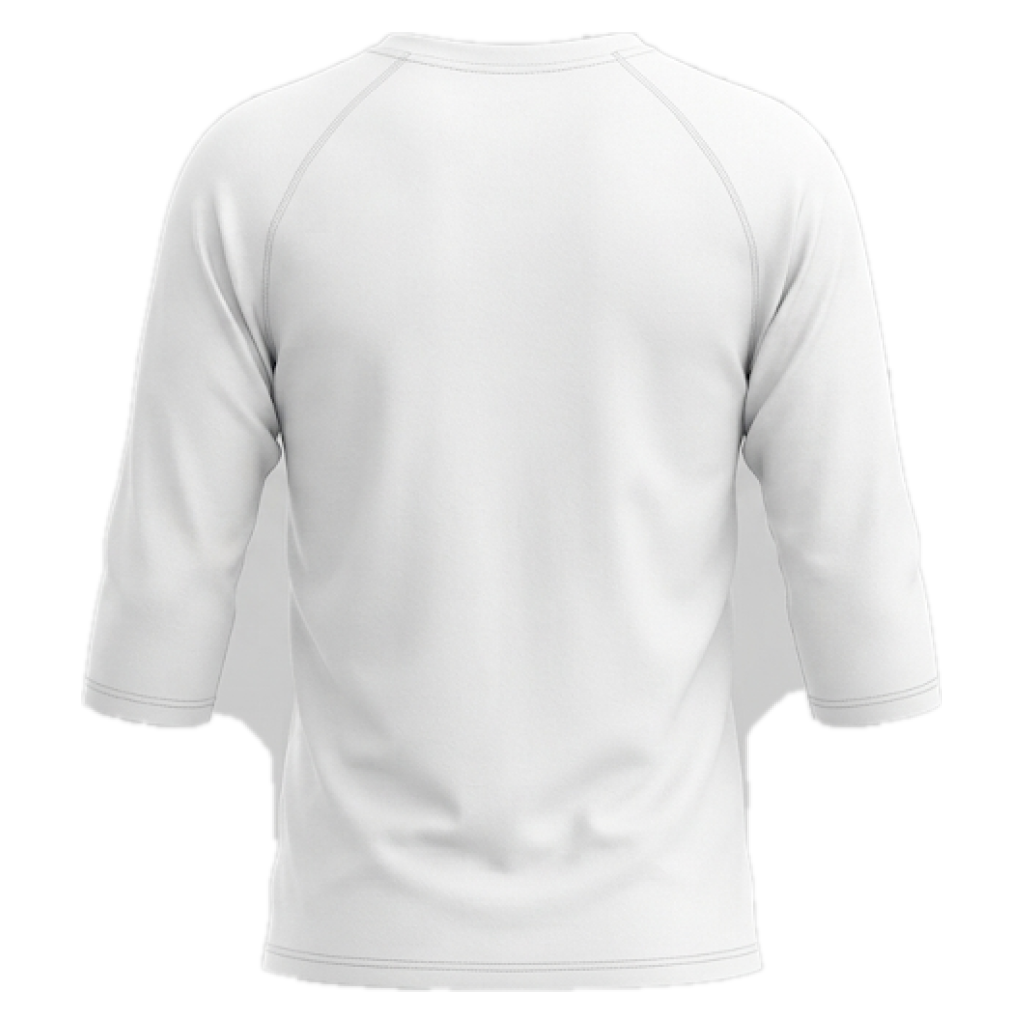
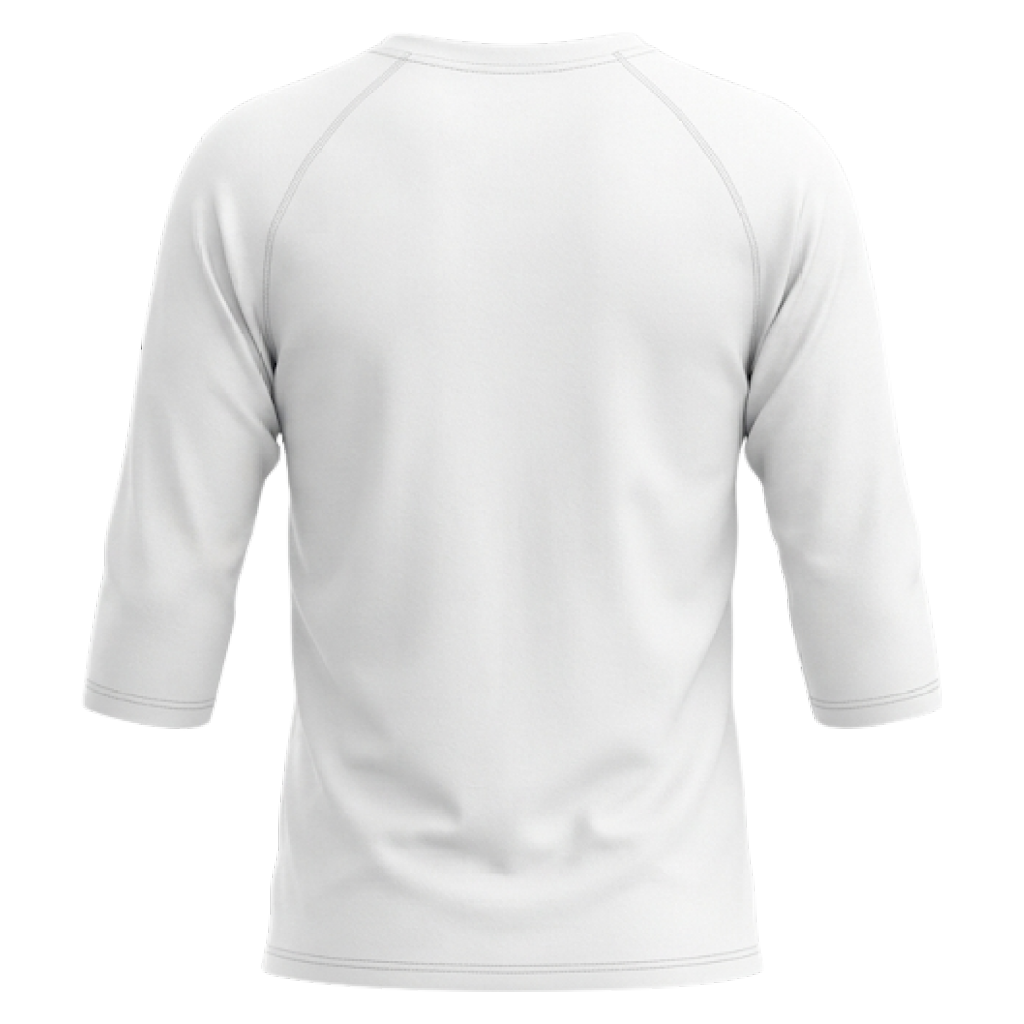
Studio: use hand-cut transparent photos; tune cap and V-neck zones
- build_garment_assets.py uses finished transparent cut-outs (from Downloads or
  <source>/cutouts) as is, so gaps between arms and torso and thin parts are
  exact; the automatic cut-out stays as a fallback.
- Re-generated all garment images from them (full-size for crew/polo/henley).
- Cap brim/button and V-neck collar zones re-aligned to the new images.

Changed region(s): [[0.1875, 0.4062, 0.3125, 0.8125], [0.6875, 0.3438, 0.8125, 0.7812], [0.75, 0.2812, 0.7812, 0.3125]]

diff --git a/lib/models/garment_style.dart b/lib/models/garment_style.dart
@@ -631,20 +631,22 @@ final _capFront = <String, ZonePath>{
   'brim': ZonePath(
     polygons: [
       [
-        _o(80, 660),
-        _o(512, 672),
-        _o(985, 660),
-        _o(990, 740),
-        _o(900, 830),
-        _o(780, 875),
-        _o(512, 895),
-        _o(300, 880),
-        _o(180, 820),
-        _o(85, 740),
+        _o(64, 690),
+        _o(280, 665),
+        _o(512, 656),
+        _o(740, 665),
+        _o(992, 690),
+        _o(960, 860),
+        _o(944, 935),
+        _o(780, 895),
+        _o(512, 860),
+        _o(244, 895),
+        _o(80, 935),
+        _o(64, 860),
       ],
     ],
   ),
-  'button': ZonePath(ellipses: [(_o(512, 92), 32, 24)]),
+  'button': ZonePath(ellipses: [(_o(512, 86), 30, 22)]),
 };
 final _capBack = <String, ZonePath>{
   'strap': ZonePath(
@@ -652,7 +654,7 @@ final _capBack = <String, ZonePath>{
       [_o(280, 660), _o(780, 665), _o(800, 700), _o(790, 745), _o(280, 740)],
     ],
   ),
-  'button': ZonePath(ellipses: [(_o(512, 92), 32, 24)]),
+  'button': ZonePath(ellipses: [(_o(512, 86), 30, 22)]),
 };
 
 final _toteHandles = ZonePath(

diff --git a/tools/build_garment_assets.py b/tools/build_garment_assets.py
@@ -26,6 +26,11 @@ FIT = 960  # garment fits inside FIT x FIT, centred
 # "foo.png" is named "foo-removebg-preview.png" and may live in any of these.
 GUIDE_DIRS = [Path.home() / "Downloads", SRC / "guides"]
 
+# Finished transparent cut-outs (e.g. made by hand in an editor), named like the
+# source photo (<source>.png). When one has real transparency it is used as is,
+# skipping the automatic cut-out.
+READY_DIRS = [Path.home() / "Downloads", SRC / "cutouts"]
+
 # output name -> (source file, optional list of (x0,y0,x1,y1) patches to
 # inpaint away in the *source* image, e.g. to derive a plain tee from a
 # pocket tee).
@@ -138,10 +143,26 @@ def guide_alpha(src, shape):
     return None
 
 
+def ready_cutout(src):
+    """A finished RGBA cut-out for source file [src] (real transparency), or None."""
+    for d in READY_DIRS:
+        f = d / Path(src).name
+        if not f.exists():
+            continue
+        im = cv2.imread(str(f), cv2.IMREAD_UNCHANGED)
+        if im is not None and im.ndim == 3 and im.shape[2] == 4 and (im[:, :, 3] < 10).mean() > 0.2:
+            return im
+    return None
+
+
 def build(name, src, patches):
     # Backdrop wedges between arms and torso: crew/polo backs, and every later style.
     slivers = (name.endswith('_back') and name.split('_')[0] in ('crew', 'polo')) or name in WEDGES
-    img = cv2.imread(str(SRC / src), cv2.IMREAD_COLOR)
+    ready = ready_cutout(src)
+    if ready is not None:
+        img = np.ascontiguousarray(ready[:, :, :3])
+    else:
+        img = cv2.imread(str(SRC / src), cv2.IMREAD_COLOR)
     if img is None:
         raise SystemExit(f"missing source image: {SRC / src}")
     h, w = img.shape[:2]
@@ -156,8 +177,8 @@ def build(name, src, patches):
         pm = np.full(patch.shape[:2], 255, np.uint8)
         pm[:6, :] = pm[-6:, :] = pm[:, :6] = pm[:, -6:] = 0
         img = cv2.seamlessClone(patch, img, pm, ((x0 + x1) // 2, (y0 + y1) // 2), cv2.NORMAL_CLONE)
-    alpha = cutout(img, slivers, name not in KEEP_HOLES, 0.4 if name in KEEP_HOLES else None, name.endswith(('_left', '_right')))
-    guide = None if patches else guide_alpha(src, alpha.shape)
+    alpha = ready[:, :, 3] if ready is not None else cutout(img, slivers, name not in KEEP_HOLES, 0.4 if name in KEEP_HOLES else None, name.endswith(('_left', '_right')))
+    guide = None if (patches or ready is not None) else guide_alpha(src, alpha.shape)
     if guide is not None:
         alpha = (alpha * guide).astype(np.uint8)
         print('  guided by a reference cut-out')
